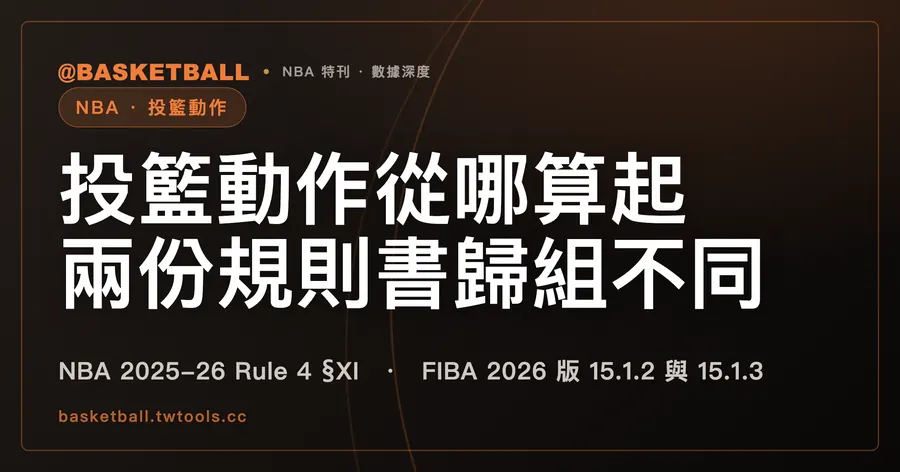
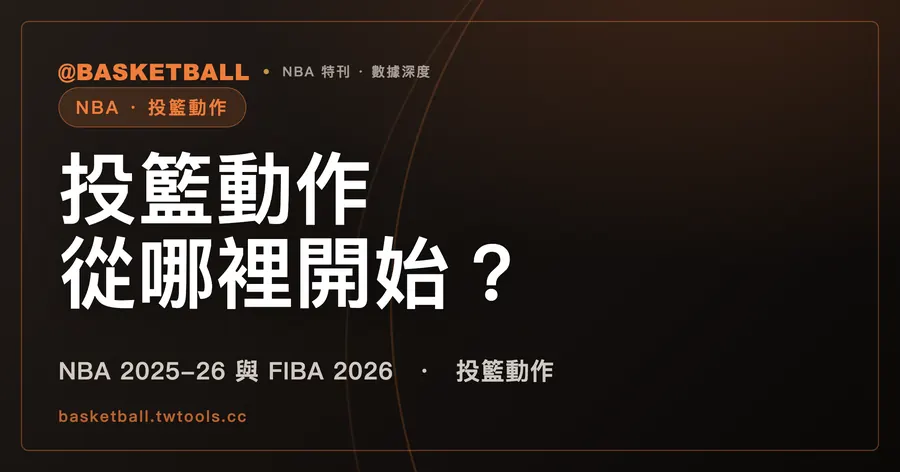
style: simplify shooting-motion and end-of-period guides (#89)

diff --git a/scripts/gen-basketball-cover.py b/scripts/gen-basketball-cover.py
@@ -279,11 +279,11 @@ COVERS = [
      "運球停下來後<br>還能再運嗎？",
      "NBA 2025-26 與 FIBA 2026　·　運球結束與二次運球"),
     ("act-of-shooting-basics", "NBA · 投籃動作",
-     "投籃動作從哪算起<br>兩份規則書歸組不同",
-     "NBA 2025-26 Rule 4 §XI　·　FIBA 2026 版 15.1.2 與 15.1.3"),
+     "投籃動作<br>從哪裡開始？",
+     "NBA 2025-26 與 FIBA 2026　·　投籃動作"),
     ("end-of-period-ball-in-flight-basics", "NBA · 時間到時的球",
-     "時間到時球在飛行中<br>之後被碰到寫法不同",
-     "NBA 分防守方與進攻方　·　FIBA 寫任一隊球員"),
+     "時間到之後<br>誰碰到了球？",
+     "NBA 2025-26 與 FIBA 2026　·　飛行中的投籃"),
     ("ball-out-of-bounds-last-touch-basics", "NBA · 球出界",
      "球出界<br>算誰的？",
      "NBA 2025-26 與 FIBA 2026　·　最後觸球與恢復程序"),

diff --git a/articles/end-of-period-ball-in-flight-basics/index.md b/articles/end-of-period-ball-in-flight-basics/index.md
@@ -4,135 +4,93 @@ competition: nba
 topic: nba-rules
 type: "feature"
 date: "2026-10-10"
-title: "投籃的球在空中、時間到之後被碰到：NBA 2025-26 按碰球者分兩種結果，FIBA 2026 寫任一隊球員"
-subtitle: "NBA 2025-26 規則書 Rule 5 §III EXCEPTION (3)：horn 響時球已在飛行中，其後被防守方球員碰到，the goal, if successful, shall count；被進攻方球員碰到，the period has ended。FIBA 2026 版 Art. 10.3：任一隊球員在 game clock signal 之後碰到飛行中的投籃，the ball becomes dead，該項沒有寫進球算不算。"
-lede: "NBA 2025-26 規則書 Rule 4 §XI 寫，live ball 從場內飛向籃框時，即使 time expires，進了的球 shall count；FIBA 2026 版規則書（2026 年 10 月 1 日生效）Art. 10.4 寫，投籃在飛行中而且 game clock signal 為節末或延長賽結束響起時，the goal counts if made。球在時間到之後被碰到，兩本規則書的寫法不同（NBA Rule 5 §III EXCEPTION (3)、FIBA Art. 10.3）。"
+title: "節末訊號後，飛行中的投籃被碰到怎麼算？NBA 與 FIBA 規則對照"
+subtitle: "NBA 2025-26 規則書與 FIBA 2026 版（v1.1）怎麼處理節末前出手、訊號時仍在空中的兩分或三分投籃：先看有沒有人碰；有人碰，先看這一碰算不算違例，不算違例再看是哪一隊碰的（NBA 才分隊）。"
+lede: "球在節末前已出手，訊號響時還飛向籃框。之後有人碰球，進了算不算？NBA 2025-26 要分碰球的是哪一隊；兩邊都還要把普通碰球與干擾球、妨礙中籃分開處理。"
 topic_ref: "manual"
 ---
 
-# 投籃的球在空中、時間到之後被碰到：NBA 2025-26 按碰球者分兩種結果，FIBA 2026 寫任一隊球員
+# 節末訊號後，飛行中的投籃被碰到怎麼算？NBA 與 FIBA 規則對照
 
 **新手村｜規則入門・時間到時飛行中的投籃**
 
-時鐘剛好跑完，球已經離手，還在飛向籃框。這一球進了算不算？如果球在這個時候被人碰到，又怎麼辦？
+想像一個畫面（假設，不是哪一場比賽）：第四節剩不到一秒，球員在場內投出一記兩分球。球離手，計時器歸零，節末訊號響起，球還在往籃框飛。
 
-本文依據 NBA 2025-26 規則書（含 Comments on the Rules）與 FIBA 2026 版規則書 v1-1（2026 年 10 月 1 日生效）的本機保存全文文字檔，取得日 2026 年 10 月 4 日。
+這球還算不算？如果有人伸手碰到它，又怎麼算？
 
-這類球在中文裡有個慣稱叫「壓哨」，「時間到」「飛行中」也是中文講法，都不是規則書的用語。NBA 條文寫的是 time expires、horn sounds、in flight toward the basket，FIBA 2026 版寫的是 game clock signal sounds、in flight on a shot for a goal。下文引條文時保留英文原詞，中文的「時間到」只在概括時使用。
+## 訊號響時球在空中、之後沒人碰，進了算嗎？
 
-讀完之後，你可以拿三個假設的瞬間，自己判斷兩本規則書的字面結果，也會看出哪兩格條文沒有寫。
+先把設定講清楚：場內的合法兩分或三分投籃，在節末（或延長賽結束）的時間到之前離手，訊號響時仍飛向籃框，沒有其他犯規或違例，之後也沒有任何人碰到球。罰球不在這個設定裡。
 
-## 五款例外裡寫到飛行中的球：NBA 2025-26 Rule 5 §III 的 (1) 與 (3)
+在這個設定下，NBA 2025-26 與 FIBA 2026 v1.1 的結果相同：進了，算分。
 
-NBA 2025-26 規則書 Rule 5 §III（End of Period）a 款的第一句是「Each period ends when time expires」，每一節在 time expires 時結束。接著列出五款 EXCEPTIONS：
+NBA Rule 4 §XI 說，從場內向籃框飛行的活球，即使時間到或哨響，進了仍然計分。但比賽鐘如果在球離手之前，或球還沒飛向籃框之前就到期，這球不計分。
 
-| 款 | 情境（NBA 2025-26，Rule 5 §III a） |
-|---|---|
-| (1) | field goal attempt 在 in flight toward the basket：節在 goal 被 made、missed 或被 offensive player 碰到時結束 |
-| (2) | official 的 whistle 在時鐘 :00.0 之前響起：節沒有結束，時間要加回時鐘 |
-| (3) | field goal attempt 在 horn sounds ending a period 時已在 in flight toward the basket，其後被碰到 |
-| (4) | timeout request 在 time expires 的當下提出 |
-| (5) | foul 被判在 in the act of shooting 的球員身上，或由這名球員犯下 |
+FIBA 寫在 10.4。投籃的球在飛行中，遇到節末或延長賽結束的比賽鐘訊號（game clock signal），球不會成為死球，進了算分。FIBA 9.7 規定，一節在比賽鐘訊號響起時結束。背板周圍裝有紅燈的話，燈光優先於聲響。
 
-b 款另寫一個情形：ball is dead 而且 game clock shows :00.0 時，the period has ended，即使 horn 可能還沒響。
+什麼叫球已經「出手」，是另一個問題，可以看[投籃動作的規則入門](/articles/act-of-shooting-basics/)。
 
-五款裡有 in flight 這個詞的是 (1) 與 (3)。(1) 的文字沒有提到 horn；(3) 的前提是 horn 響時球已經在飛行中。進了算不算，要再翻 Rule 4 §XI。(2)、(4)、(5) 與 b 款談的是別的事。
+## 訊號之後，誰碰到了球？
 
-## 時間到時飛行中的球進了算不算：NBA 2025-26 寫在 Rule 4 §XI
+下表的設定要一次看完：場內的合法兩分或三分投籃；在節末或延長賽結束的訊號前離手；訊號響時仍飛向籃框；若訊號後有人碰到球，該次碰球不構成干擾球、妨礙中籃或任何其他犯規違例；球之後進了籃。
 
-NBA 2025-26 規則書 Rule 4（Definitions）§XI（Field Goal Attempt）有一句直接談進球：「However, anytime a live ball is in flight toward the rim from the playing court, the goal, if made, shall count, even if time expires or the official’s whistle sounds.」句子裡有三個限定：球是 live ball、球在 in flight toward the rim、球是 from the playing court。even if 後面列了兩件事，time expires 與 the official’s whistle sounds。
-
-同一段也有反面的一句：time on the game clock expires before the ball leaves the player’s hand，或 before the ball is in flight toward the rim 時，the field goal will not be scored。
-
-Rule 5 §III EXCEPTION (1) 的文字回答的是另一個問題：field goal attempt in flight toward the basket 時，節在 goal made、missed 或被 offensive player 碰到的時候結束。這一款寫節的結束時點，沒有寫計分。Rule 6 §IV a 的 EXCEPTION 有相近的字，寫的是球變 dead 的時點。
-
-## 響聲時已在飛行、之後被碰到：NBA 2025-26 EXCEPTION (3) 分防守方與進攻方
-
-Rule 5 §III a 的 EXCEPTION (3) 是把 horn 與碰球寫在同一句的一款：「If a field goal attempt is in flight toward the basket when the horn sounds ending a period, and it subsequently is touched by: (a) a defensive player, the goal, if successful, shall count; or (b) an offensive player, the period has ended.」
-
-這一款的前提有兩層。第一層，horn sounds ending a period 的時候，球已經 in flight toward the basket。第二層，球在 horn 響過之後才 subsequently touched。(a) 與 (b) 接在這兩層前提之後。
-
-(a) 的碰球者是 defensive player，款文寫 the goal, if successful, shall count。(b) 的碰球者是 offensive player，款文寫 the period has ended。(b) 寫到這裡為止，這一球若進了籃算不算分，款文沒有寫。
-
-offensive player 碰到球的句子，EXCEPTION (1) 也有，那一句沒有 horn 這個詞；(3)(b) 的前提多了 horn 響時球已在飛行中。
-
-## 時間到時飛行中的投籃進了算不算：FIBA 2026 版寫在 Art. 10.4
-
-FIBA 2026 版規則書 Rule Four（Playing Regulations）Art. 10.4 的引言是「The ball does not become dead and the goal counts if made when:」。第一個項目寫 The ball is in flight on a shot for a goal and:，底下有三個子項：referee 吹哨、game clock signal sounds for the end of the quarter or overtime、shot clock signal sounds。這裡用到的是第二個子項 game clock signal。
-
-這一項的前提是兩件事同時成立：球在 in flight on a shot for a goal，而且 game clock signal sounds for the end of the quarter or overtime。結果寫兩件：the ball does not become dead，而且 the goal counts if made。這一項的文字沒有提到球被碰到的情形。
-
-shot for a goal 從什麼時候算起，寫在另一條：Rule Five（Violations）Art. 31.1.1 寫，shot for a goal 在 the ball leaves the hand(s) of a player in the act of shooting 時 starts。「in the act of shooting」是另一個題目，[同一批新文章裡有一篇談投籃動作](/articles/act-of-shooting-basics/)。
-
-Art. 9.7 另有一句談節何時結束：quarter、overtime 或 game 在 game clock signal sounds for the end of the quarter or overtime 時 shall end。
-
-## 飛行中的投籃在響聲之後被碰到：FIBA 2026 版 Art. 10.3 寫任一隊球員
-
-FIBA 2026 版 Art. 10.3 的引言是「The ball becomes dead when:」（死球是站內習慣的譯名，規則書的英文是 dead）。下面有六個項目：任何 goal 或 free throw 進了；referee 在球是 live 時吹哨；罰球之後還有罰則，而且球明顯不會進籃；game clock signal 為節末或延長賽結束響起；shot clock signal 在球隊控球時響起；第六項寫飛行中的球被碰到。
-
-第六項的原文是：「The ball in flight on a shot for a goal is touched by a player from either team after:」，後面有三個子項，referee 吹哨、game clock signal 響起、shot clock signal 響起。球在 game clock signal sounds for the end of the quarter or overtime 之後被碰到，the ball becomes dead。碰球的人寫成 a player from either team，兩隊的球員用同一句。
-
-這一項寫到 the ball becomes dead 為止，進球算不算，該項沒有寫。附近有三處文字用到相近的詞：Art. 10.3 的第四個項目只寫 game clock signal sounds，結果是 the ball becomes dead；Art. 10.4 第一項寫 in flight 而且 game clock signal 響起，結果是 the goal counts if made；Art. 16.1.1 另寫 a goal is made 的定義，a live ball enters the basket from above and remains within or passes through the basket entirely。這三處在不同條或不同項，原文沒有互相指涉，各寫各的。
-
-## 出手是否趕在時間到之前：NBA 2025-26 與 FIBA 2026 版的訊號、燈光與複核
-
-前面幾節談的是球已經在飛行中的情形。球有沒有在時間到之前離手，兩邊各有訊號與複核的條文：
-
-| 項目 | NBA 2025-26 | FIBA 2026 版 |
+| 訊號後誰碰到球 | NBA 2025-26 | FIBA 2026 v1.1 |
 |---|---|---|
-| 訊號 | Rule 2 §VIII g：game clock 與 scoreboard 使 horn 在 playing time for the period has expired 時自動響起 | Art. 50.1：timer 要 ensure that the game clock signal sounds very loudly and automatically at the end of a quarter or overtime |
-| 紅色燈光 | Rule 1 §II g：backboard 的四條 red LED，與 game clock 同步，指示 expiration of time | Art. 9.7：backboard 配有 red lighting around its perimeter 時，the lighting takes precedence over the game clock signal sound |
-| 複核 | Rule 13 §I a(1)：任一節結束、時鐘 0:00 時的 field goal made 觸發重播；§II a：檢視 time on the game clock expired before the ball left the shooter’s hand | Appendix F.3.1：end of the quarter or overtime 時，可複核 whether a shot for a successful goal was released before the game clock signal sounded |
+| 沒有人碰 | 算 | 算 |
+| 防守方球員碰 | 算 | 不算 |
+| 進攻方球員碰 | 不算 | 不算 |
 
-NBA 這一側還有兩處。Comments on the Rules II.L 寫，無論 horn 或 red light 何時運作，officials（as aided by instant replay, if required）會做出 final decision，決定 allow 或 disallow a successful field goal。Rule 13 §III d 規定，Replay Center Official 對任一節結束的 scoring、timing 或 fouls 下裁決時，依序使用的清單，第 (1) 項是 game clock or shot clock on top of backboard，第 (2) 項是 LED lights。
+NBA Rule 5 §III 例外 (3)(b) 寫進攻方碰球後節已結束。Rule 6 §IV 在節末時間到的死球規定中保留例外：當時已在飛行中的投籃，要到球進、球不進或被進攻方球員碰到時，才成為死球。Rule 5 §I 只替合法投籃的入籃計分。球已經死了，之後才入籃，不算分。
 
-紅色燈光在兩本規則書各是一條獨立的文字。NBA 的 Rule 1 §II g 是 backboard 的設備規格，款文沒有 precedence 這個字；FIBA 的 Art. 9.7 寫的是燈光與聲響訊號之間的先後。
+FIBA 的寫法不分隊。10.3 把節末或延長賽訊號之後、飛行中的投籃被任一隊球員碰到，列為死球。16.1.1 說，進球是活球從上方進入籃框，並留在籃內或完全穿過。死球之後入籃，不符合這個定義。
 
-複核的兩條列的都是出手時點：球離手時，時間到了沒有。EXCEPTION (3) 與 Art. 10.3 談的，是球已經在飛行中之後的事。
+兩本規則書只在防守方那一列給出不同的結果。
 
-## 相鄰條文的去處：NBA 2025-26 的 0.3 秒門檻、暫停請求與投籃中的犯規
+## 如果碰球的動作本身就違例呢？
 
-- Comments on the Rules II.L 的 :00.3 門檻與 :00.2、:00.1 只列 tip-in 或 high lob 的句子，見 [0.3 秒規則](/articles/point-three-seconds-rule-basics/)。Rule 5 §III 與 Comments II.L 的文字各自沒有指向對方，兩處並存，各寫各的；本機保存的規則書文字檔裡，明寫指向 II(L) 的是 Rule 13 §I a(1) NOTE 的第二句，連的是 Rule 13，不是 Rule 5 §III。
-- EXCEPTION (4) 的 timeout request 見 [暫停配額](/articles/timeouts-basics/)。
-- EXCEPTION (5) 與 b 款之後那行 EXCEPTION 都指向 Rule 13, Section II(b)(ii)（in the act of shooting 的球員的 foul）；[教練挑戰](/articles/coachs-challenge-basics/) 有一行列出任一節結束、時鐘歸零（0:00）的進球。
+干擾球與妨礙中籃不是同一個門檻。兩本規則書各自有禁令和給分的罰則，碰球一旦落進其中一類，就不再用上面的表判。
 
-## 拿三個假設的瞬間，判斷 NBA 2025-26 與 FIBA 2026 的字面結果
+NBA 先看 Rule 6 §IV。它的例外讓飛行中的投籃在 horn 響時仍然存活，所以 Rule 11 照常適用。Rule 11 有很多款禁令。例如其中一款禁止從場內碰觸正在下降、仍有得分機會的球。其他款的要件各不相同，不能用這一款概括全部。
 
-下面三個瞬間都是假設，沒有指任何一場比賽。共同的假設前提：甲隊球員從場內投籃，球是 live ball，在時間到之前已離手，正在飛向籃框；NBA 的 horn 或 FIBA 的 game clock signal 為節末或延長賽結束響起時，球還在飛行中。每一格答案都出自前面幾節引過的條文。
+防守方的碰球如果符合其中一款的要件，依投籃出手的區域判給分：兩分區出手給 2 分，三分區出手給 3 分，視同球已進籃，不以球實際入籃為必要。這裡只談防守方單方違例。
 
-| 假設的瞬間 | NBA 2025-26 | FIBA 2026 版 |
-|---|---|---|
-| 1　響聲之後沒有人碰到球，球隨後進了籃 | Rule 4 §XI：the goal, if made, shall count | Art. 10.4：the ball does not become dead and the goal counts if made |
-| 2　響聲之後，球被乙隊（防守方）球員碰到，球隨後進了籃 | Rule 5 §III EXCEPTION (3)(a)：the goal, if successful, shall count | Art. 10.3：the ball becomes dead；進球算不算，該項沒有寫 |
-| 3　響聲之後，球被甲隊（進攻方）球員碰到，球隨後進了籃 | Rule 5 §III EXCEPTION (3)(b)：the period has ended；進球算不算，款文沒有寫 | Art. 10.3：the ball becomes dead；進球算不算，該項沒有寫 |
+FIBA Art. 31 分別規定干擾球與妨礙中籃，兩者的成立要件不同，不能用干擾球的門檻概括所有妨礙中籃。
 
-瞬間 2 與瞬間 3 的 FIBA 欄一樣，因為 Art. 10.3 這一項寫的是 a player from either team。NBA 欄不同，因為 EXCEPTION (3) 先問碰球者是 defensive player 還是 offensive player。
+節末另有 31.2.5：節末或延長賽結束訊號響過，球已碰框而且仍可能入籃，任何球員都不得碰，干擾球與妨礙中籃的限制也全部適用。
 
-要自己做這件事，可以拿任何一段對時間到前後球路的描述，依序問三個問題。球離手了嗎？響聲響起時，球還在飛行中嗎？之後有人碰到球嗎，碰到的是哪一隊的人？這個順序是本文的讀法，不是規則書的步驟。
+本文只摘 Art. 31.3 在場內兩分與三分投籃、單方違例情境的得分處理：防守球員違例，進攻隊依出手區得 2 或 3 分，視同球已進籃；進攻球員違例，不給分。
 
-兩本規則書的字面寫法不同，但字面不同是否讓同一個瞬間在兩邊得到不同的判決，本文引用的條文答不了。能確定的是，碰球之後的寫法各有一格留白：NBA 的 EXCEPTION (3)(b) 停在 the period has ended，FIBA 的 Art. 10.3 這一項停在 the ball becomes dead。
+比較壓哨球，只問有沒有及時出手不夠。在場內兩分與三分投籃的範圍內，還要分清後面是哪一隊碰球，以及碰球本身算不算違例。
+
+相關閱讀：[0.3 秒規則](/articles/point-three-seconds-rule-basics/)、[暫停](/articles/timeouts-basics/)、[教練挑戰](/articles/coachs-challenge-basics/)。
 
 ## 常見問題
 
 ### NBA 2025-26 規則書裡，time expires 時球已在飛行中而且沒被碰到，進了算分嗎？
 
-依 NBA 2025-26 規則書 Rule 4 §XI，live ball 從場內飛向籃框（in flight toward the rim from the playing court）時，the goal, if made, shall count，即使 time expires。這一句沒有談球被碰到的情形，碰球寫在 Rule 5 §III EXCEPTION (3)。詳見本文談 Rule 4 §XI 的那一節。
+算。條件是場內的合法兩分或三分投籃，在節末時間到之前離手，時間到時仍飛向籃框，沒有其他犯規或違例，之後也沒有人碰到球。比賽鐘若在球離手前就到期，不計分。依據是 Rule 4 §XI 與 Rule 5 §III，詳見第一、二節。
 
 ### FIBA 2026 版規則書裡，game clock signal 響時投籃的球在飛行中，進了算分嗎？
 
-依 FIBA 2026 版規則書 Art. 10.4，投籃在 in flight 而且 game clock signal sounds for the end of the quarter or overtime 時，the ball does not become dead and the goal counts if made。這一項沒有提到球被碰到。詳見談 Art. 10.4 的那一節。
+算。條件同樣是場內的合法兩分或三分投籃，在節末或延長賽結束的訊號前離手，訊號響時仍在飛行，沒有其他犯規或違例，之後也沒有人碰到球。依據是 10.4，球不會成為死球。
 
 ### NBA 2025-26 的 horn 響過之後，飛行中的球才被碰到，怎麼算？
 
-依 NBA 2025-26 規則書 Rule 5 §III EXCEPTION (3)，前提是 horn 響時球已在 in flight toward the basket。其後被 defensive player 碰到，the goal, if successful, shall count；被 offensive player 碰到，the period has ended，款文沒有寫進球算不算。詳見談 EXCEPTION (3) 的那一節。
+先看設定：場內的合法兩分或三分投籃，節末前離手，horn 響時仍飛向籃框，而且這一碰不構成干擾球、妨礙中籃或其他犯規違例。防守方碰到，進了算；進攻方碰到，節已結束，球成死球，之後入籃不算。
+
+如果碰球本身符合 Rule 11 的違例要件，改按違例判。防守方違例依出手區給 2 或 3 分，不必入籃。詳見第二、三節。
 
 ### FIBA 2026 版 game clock signal 響過之後，飛行中的投籃被碰到，怎麼算？
 
-依 FIBA 2026 版規則書 Art. 10.3 第六個項目，ball in flight on a shot for a goal 在 game clock signal sounds for the end of the quarter or overtime 之後被任一隊球員碰到，the ball becomes dead；進球算不算，這一項沒有寫。詳見談 Art. 10.3 的那一節。
+先看設定：場內的合法兩分或三分投籃，節末或延長賽結束的訊號前離手，訊號響時仍在飛行，而且這一碰不構成干擾球、妨礙中籃或其他犯規違例。任一隊球員碰到，球成死球，之後入籃不算進球。
+
+如果碰球本身構成干擾球或妨礙中籃，改按 Art. 31 判：防守球員違例，依出手區給 2 或 3 分；進攻球員違例，不給分。訊號後球已碰框而且仍可能入籃，任何球員都不得碰。詳見第二、三節。
+
+## 範圍與版本
+
+比較對象是 NBA 2025-26 官方規則書，與 FIBA 官方籃球規則 2026 年版（v1.1，2026 年 10 月 1 日生效），不是 NBA 2026-27 的更新案。範圍限場內的兩分與三分投籃，罰球不在內。表中的結果，只在表上方那組設定全部成立時成立；碰球本身若違例，看第三節。規則的中文是轉述，不是官方翻譯；條號與第一次出現的術語保留英文。
 
 ## 資料來源
 
-範圍與版本：本文只讀 NBA 2025-26 規則書與 FIBA 2026 版 v1-1 兩份文件，規則書會隨賽季或修訂更新，之後以官方發布的現行版本為準。
-
-- NBA Official Playing Rules 2025-26（含 Comments on the Rules）：Rule No. 1 Section II g；Rule No. 2 Section VIII g；Rule No. 4 Section XI；Rule No. 5 Section III a、b；Rule No. 6 Section IV a；Rule No. 13 Section I a(1) 與其 NOTE、Section II a、Section III d；Comments on the Rules II.L。本機保存的全文文字檔，取得日 2026 年 10 月 4 日，無可點擊網址。
-- FIBA Official Basketball Rules 2026 v1-1（2026 年 10 月 1 日生效）：Art. 9.7、10.3、10.4、16.1.1、31.1.1、50.1，以及 Appendix F.3.1。本機保存的全文文字檔，取得日 2026 年 10 月 4 日，無可點擊網址。
+- [NBA 2025-26 官方規則書](https://cdn.nba.com/manage/2026/01/Official-2025-26-NBA-Playing-Rules.pdf)：Rule 4 §XI、Rule 5 §I 與 §III、Rule 6 §IV、Rule 11。
+- [FIBA 官方規則下載頁](https://about.fiba.basketball/en/services/resource-hub/downloads)：2026 年版 9.7、10.3、10.4、16.1.1、Art. 31。

diff --git a/articles/act-of-shooting-basics/index.md b/articles/act-of-shooting-basics/index.md
@@ -4,164 +4,75 @@ competition: nba
 topic: nba-rules
 type: "feature"
 date: "2026-10-10"
-title: "投籃動作的起點怎麼分組？NBA 2025-26 與 FIBA 2026 的歸法不同"
-subtitle: "other moving shots 在 NBA 2025-26 Rule 4 §XI 與 drives to the basket 同句，在 FIBA 2026 版 Art. 15.1.2 與 jump shots 同款，起算的動作也跟著不同。"
-lede: "NBA 2025-26 規則書 Rule 4 §XI 把 drives to the basket 與 other moving shots 寫在同一句，以球員 gathers the ball and continues through with a shot 起算（take foul situation 且 clocks are not expiring 時，改以 the player's shoulders start upward 起算），jump shots 另以 starts to bring the ball upward towards the basket 起算。FIBA 2026 版規則書（2026 年 10 月 1 日生效）Art. 15.1.2 則把 jump shots 與 other moving shots 寫在同一款，drives to the basket 另列 15.1.3。"
+title: "投籃動作從哪裡開始？NBA 2025-26 與 FIBA 2026"
+subtitle: "收球不能概括所有投籃動作的起點，球出手也不能當成兩本規則書共通的終點。"
+lede: "投籃動作什麼時候開始、什麼時候結束？NBA 2025-26 規則書與 FIBA 2026 版規則書（v1.1，2026 年 10 月 1 日生效）起點按動作類型和情境寫，終點各有寫法，所以「收球」不是所有起點，「球出手」也不是兩邊共通的終點。"
 topic_ref: "manual"
 ---
 
-# 投籃動作的起點怎麼分組？NBA 2025-26 與 FIBA 2026 的歸法不同
+# 投籃動作從哪裡開始？NBA 2025-26 與 FIBA 2026
 
 **新手村｜規則入門・投籃動作**
 
-本文依據 NBA 2025-26 規則書的 Rule 4 Section XI（Field Goal Attempt），以及 FIBA 2026 版規則書 v1-1（2026 年 10 月 1 日生效）的 Article 15（Player in the act of shooting）。兩份全文文字檔都是 2026 年 10 月 4 日取得。
+NBA 規則書在投籃動作的定義裡，有一句容易讓人愣住的話：“It is not essential that the ball leave the shooter’s hand.” 球不必離開射手的手。下一句舉了一個例子：射手的手臂可能被抓住，沒辦法真的出手。
 
-罰球數和三秒通融，都要先問球員是不是在投籃動作中。站內的[違例與犯規有什麼不同](/articles/violation-vs-foul/)，把「投籃動作中」當作罰球數的條件；[進攻三秒什麼時候開始算](/articles/offensive-three-seconds-basics/)，把它當作 NBA 2025-26 Rule 10 §VI(b) 通融的前提。這個前提本身怎麼從條文判斷，是本文要讀的。
+規則書說的「投籃動作」（act of shooting）是一段時間，有起點，也有終點，不等於球出手的那一瞬間。這段時間從哪裡開始、到哪裡結束，NBA 2025-26 規則書和 FIBA 2026 版規則書的寫法有差別。
 
-「投籃動作」是站上對 act of shooting 的慣稱，規則書只有英文。跳投、切入也是中文慣稱，規則書用的是 jump shots 與 drives to the basket。shooting motion、take foul 這類規則書用語，本文保留英文，不另譯。
+## 收球時，已經開始投籃了嗎？
 
-NBA 2025-26 規則書與 FIBA 2026 版規則書都把投籃動作的起點按動作分開寫，但分法不同。讀完之後，你可以拿一個動作，自己到兩份條文裡找它的起點和終點。
-
-## 起點由裁判判斷、終點要兩個條件：NBA 2025-26 的投籃動作
-
-NBA 2025-26 規則書把投籃動作寫在 Rule 4 Section XI，節名是 Field Goal Attempt。首句說明 field goal attempt 是球員把球投進 his basket、想得到 field goal 的嘗試。
-
-定義投籃動作的句子在後面，原句是：The act of shooting starts when, in the official’s judgment, the player has started his shooting motion and continues until the shooting motion ceases and he returns to a normal floor position.
-
-起點是裁判判斷球員已經開始 shooting motion 的那一刻。終點要等 shooting motion 停止，而且球員回到 normal floor position，兩個條件用 and 連接。
-
-終點句裡沒有寫球離手。球離手這個條件，要到 FIBA 2026 版的 Ends 項才出現。
-
-球出手之後在空中的階段，以及節末時間到時怎麼處理，歸同一批新文章裡的[節末球在空中那篇](/articles/end-of-period-ball-in-flight-basics/)。
-
-## 起點分兩句：NBA 2025-26 把 jump shots 與另外兩種動作分開寫
-
-§XI 接下來用兩句，按動作寫 shooting motion 從哪一刻開始：
-
-| 動作（規則書用語） | NBA 2025-26 Rule 4 §XI 的起算句（意譯） |
-|---|---|
-| jump shots | 進攻球員 starts to bring the ball upward towards the basket，也就是開始把球向籃框方向往上帶 |
-| drives to the basket 或 other moving shots | 球員 gathers the ball，並 continues through with a shot |
-
-第二列那一句帶一個括號。括號的前提有兩個：take foul situation，以及 clocks are not expiring。兩個前提一起成立時，起點改成 the player’s shoulders start upward，也就是球員的肩膀開始往上。
-
-§XI 沒有定義 take foul situation 與 clocks are not expiring。Rule 4 §IV(i)(1) 在 transition take foul 的定義裡，另有一個 take foul 的括號說明：a foul in which the defender does not make a play on the ball，也就是防守者沒有去爭球的犯規。§XI 沒有引用 §IV，兩處的 take foul 是否同義，條文沒有寫。jump shots、drives to the basket、other moving shots 這三個詞，兩份規則書也都沒有各自的定義句。一個實際動作要歸進哪一組，條文沒有給判準。gather 則有定義，在 Rule 4 §III，分成兩款：經傳球接球或取得 loose ball 的球員，以及運球中控制球的球員。§III(b) 的三款已經列成表，見[走步篇](/articles/traveling-gather-steps-basics/)。運球什麼時候算結束，歸同一批新文章裡的[運球結束與二次運球那篇](/articles/dribble-ends-double-dribble-basics/)。
-
-## 兩款起訖：FIBA 2026 版 15.1.2 與 15.1.3 的 Ends 項逐字相同
-
-FIBA 2026 版規則書的 Article 15 共有 15.1.1 到 15.1.8 八個子條。15.1.1 是 shot、tap、dunk 的定義，已被引用在[0.3 秒規則篇](/articles/point-three-seconds-rule-basics/)。投籃動作的起點與終點，寫在 15.1.2 與 15.1.3：
-
-| 款次 | 對象 | Starts 項（意譯） |
+| 規則書 | 動作類型 | 起點 |
 |---|---|---|
-| 15.1.2 | jump shots 或 other moving shots | 球員開始把肩膀和球一起往對手籃框方向往上帶 |
-| 15.1.3 | continuous movement on drives to the basket | 球員 has gathered the ball 而且球停在手中，時機是完成運球或在空中接球之後，並且球員 continues the shooting motion preceding the release of the ball for a goal |
+| NBA Rule 4 §XI | 跳投（jump shots） | 裁判判斷已開始投籃動作，而且進攻者開始把球朝籃框往上帶 |
+| NBA Rule 4 §XI | 切入（drives to the basket）與其他移動投籃（other moving shots） | 裁判判斷已開始投籃動作，而且球員收球後接續出手。例外：take foul 情境且計時器沒有即將到期時，改從肩膀開始往上起算 |
+| FIBA Art. 15.1.2 | 跳投與其他移動投籃 | 球員開始把肩膀和球一起朝對手籃框往上移 |
+| FIBA Art. 15.1.3 | 切入（連續動作） | 完成運球或空中接球後，球員已收球、球停在手中，而且接續出手前的投籃動作 |
+| FIBA Art. 15.1.4 | 以上各款的位置 | 球員要在前場。例外：節末或延長賽比賽鐘到期前的最後一個動作，或比賽中任何時刻進攻鐘到期前的最後一個動作，可在場上任何位置，起點改為已收球、球停在手中 |
 
-15.1.3 的後段另外描述這個動作：它是球員在 the team’s frontcourt 的動作，typically（通常）從進攻方 3 分線與籃框之間開始。
+收球（gather）本身在 NBA Rule 4 §III 另有定義。運球中的球員把兩手放到球上，或讓球停住，都是收球的一種。這只說明收球何時成立，說不出投籃動作是否已經開始。
 
-兩款各有一個文字相同的 Ends 項，整句是：Ends when the ball has left the player’s hand(s), or if an entirely new act of shooting is made and, in case of an airborne shooter, both feet have returned to the floor.
+take foul 在 Rule 4 §IV 另有描述：防守者沒有試圖去碰球（make a play on the ball）的犯規。
 
-or 之後半句裡的 and, in case of an airborne shooter 管到哪裡，條文沒有標明。這裡照原文整句引，不替它斷句。
+## 球沒離手，或已經離手呢？
 
-## 歸組不同：other moving shots 在 NBA 2025-26 與 FIBA 2026 版
+NBA 的終點句有兩個條件：投籃動作停止，而且球員回到正常的地面姿態（normal floor position）。這一句沒有寫球離手。開頭那句「球不必離手」就在同一段定義裡。所以「球一出手，投籃動作就結束」，不能直接套在 NBA 這一句上。
 
-前面兩節的分組，可以排成一張表：
+FIBA 也有球不必離手的條文，Art. 15.1.6，前提比較多：球員已經在投籃動作中，手臂被對手抓住，因此無法得分。在這種情況下，球不必離手。NBA 那句的「手臂可能被抓住」是舉例，沒有把抓臂訂成唯一情形，也不表示任何抓臂都是投籃動作中的犯規。
 
-| 動作 | NBA 2025-26 Rule 4 §XI | FIBA 2026 版 Art. 15 |
-|---|---|---|
-| jump shots | 單獨一句，以球往上帶起算 | 15.1.2，以肩膀和球往上起算 |
-| other moving shots | 與 drives to the basket 同一句，以 gather 之後 continues through with a shot 起算 | 15.1.2，與 jump shots 同一款 |
-| drives to the basket | 與 other moving shots 同一句 | 15.1.3 另列一款，以球在運球結束後停在手中起算 |
+## 被犯規之後又傳球呢？
 
-起算的動作也跟著分組不同。NBA 的 shoulders 在 §XI 裡只出現在 take foul 的括號。FIBA 2026 版的一般起點就寫 shoulders and the ball，出現在 15.1.2。
+FIBA 對這個情況有兩款。球員原本在投籃動作中，被犯規之後做了某些動作，規則書就說他不再被視為曾在投籃動作中。
 
-分組不同是否影響判罰，兩份條文都沒有寫。
+跳投或其他移動投籃（Art. 15.1.7），被犯規之後，下面三件事任何一件發生，就不再算：把球傳出去；球向遠離籃框的方向往上移；球往上移的時候，球員沒有面向籃框。
 
-## 投籃的球員要在 frontcourt：FIBA 2026 版 15.1.4 與兩個例外
+切入（Art. 15.1.8）的文字只有一項：被犯規之後把球傳出去。
 
-Art. 15.1.4 的首句是：For a player to be in the act of shooting, the player must be in the frontcourt.
+NBA 的投籃動作定義（Rule 4 §XI）沒有另外一款專談被犯規後傳球，不從 FIBA 反推 NBA 的處理。
 
-接著它列出一個例外：球員可以在場上任何位置，限於兩種計時器到期之前的 last action。一種是節末或延長賽結束時 game clock 到期，另一種是比賽任何時候 shot clock 到期。這兩種情形的起點是 has gathered the ball and it comes to rest in the player’s hand(s)。
-
-15.1.4 只寫了這兩種情形的起點。終點怎麼算，15.1.4 沒有寫，也沒有引用 15.1.2 與 15.1.3 的 Ends 項。
-
-frontcourt 的定義在 Art. 2.4。Art. 11.1 另寫，球員的位置由他碰到地面的地方決定，在空中時保有上一次碰地處的狀態。15.1.4 沒有引用 Art. 2.4 與 Art. 11.1，兩條合讀的結果，條文沒有寫。
-
-NBA 2025-26 規則書 Rule 4 §XI 裡，本機快照查無 frontcourt 與 backcourt 字樣。
-
-## 球不必離手：NBA 2025-26 Rule 4 §XI 與 FIBA 2026 版 15.1.6
-
-NBA 2025-26 Rule 4 §XI 的原句是：It is not essential that the ball leave the shooter’s hand. His arm(s) might be held so that he cannot actually make an attempt.
-
-第一句本身沒有寫前提，第二句以 might 舉了手臂被抓住的例子。這兩句裡沒有 act of shooting 一詞。
-
-FIBA 2026 版 Art. 15.1.6 寫的是另一款：投籃動作中，球員的手臂可能被對手抓住，以致無法得分，In this case 球不必離手。這一款的 not essential 以手臂被對手抓住為條件。
-
-兩邊的終點句都與這個 not essential 並存。FIBA 的 Ends 項寫球離手，NBA §XI 的終點句寫 shooting motion 停止。條文沒有寫 not essential 是終點句的例外還是補充。
-
-另外，NBA 2025-26 Rule 7（Shot Clock）§II(d)(1) 寫，legal field goal attempt 的條件之一是 The ball must leave the player’s hand prior to the expiration of the shot clock。它和 Rule 4 §XI 的 not essential 句分屬兩條規則，條文沒有把兩者連起來。
-
-## 步數與被犯規後傳球：FIBA 2026 版 15.1.5、15.1.7、15.1.8 三款
-
-FIBA 2026 版 Art. 15.1.5 寫，合法步數的多少與投籃動作之間沒有關係。原文是 There is no relationship between the number of legal steps taken and the act of shooting。NBA 2025-26 的步數怎麼算，看[走步篇](/articles/traveling-gather-steps-basics/)。
-
-Art. 15.1.7 的適用情形是：球員在 jump shots 或 other moving shots 的投籃動作中，而且 after being fouled。條文接著列出三項，以 or 連接：
-
-- passes the ball off（把球傳出去）
-- if the ball is moved upwards in a direction away from the basket（球向遠離籃框的方向往上移動）
-- if the player is not facing the basket when the ball is moved in an upwards motion（球往上移動時，球員沒有面向籃框）
-
-結論句 that player is no longer considered to have been in the act of shooting 接在第三項之後，原文沒有再拆開。
-
-Art. 15.1.8 的適用情形是：球員在 drives to the basket 的投籃動作中，被犯規之後 passes the ball off。結論句相同：球員不再被視為曾在投籃動作中。
-
-這三款的詞句（passes the ball off、no longer considered、facing the basket、away from the basket、legal steps、relationship between），NBA 2025-26 規則書全文在本機快照查無逐字對應。這只是詞句比對，不代表 NBA 在判罰上怎麼處理這類情形。
-
-## 三個假設動作，NBA 2025-26 與 FIBA 2026 版各從哪裡算起、寫到哪裡？
-
-下面三個動作都是假設，不是任何一場比賽。歸類由讀者看動作決定，這裡先替每個動作指定歸類。三個動作都假設球員在自己球隊的 frontcourt，game clock 與 shot clock 都沒有接近到期。
-
-### 假設一：甲隊球員把球和肩膀一起往上帶，起跳，在空中出手後雙腳落地（歸為 jump shots）
-
-- NBA 2025-26 Rule 4 §XI：jump shots 那一句，起點是球員 starts to bring the ball upward towards the basket，也就是球開始往上帶的那一刻，同時要裁判判斷 shooting motion 已經開始。終點要 shooting motion 停止且球員回到 normal floor position 兩個條件都成立。
-- FIBA 2026 版 Art. 15.1.2：起點是肩膀和球開始往上的那一刻。frontcourt 的條件（15.1.4）在這個假設裡成立。終點句同時點名了球離手與 airborne shooter 雙腳回到地面。這個動作兩件事都發生。or 之後半句管到哪裡，本題同樣不替它下結論。
-
-### 假設二：乙隊球員運球進 frontcourt，雙手放到球上結束運球，接著繼續投籃（歸為 drives to the basket）
-
-- NBA 2025-26 Rule 4 §XI：起點是球員 gathers the ball 並 continues through with a shot。雙手放到球上、結束運球，是 Rule 4 §III(b)(1) 寫的 gather 情形之一。如果這一球同時符合括號的兩個前提（take foul situation 與 clocks are not expiring，這裡只是假設它們成立），起點改成肩膀開始往上。終點與假設一相同。
-- FIBA 2026 版 Art. 15.1.3：起點是運球結束、球停在手中，而且球員 continues the shooting motion。Art. 15.1.3 沒有為 gathered 另設定義句，和 NBA Rule 4 §III 的 gather 是否同義，條文沒有寫。兩邊的起點各自讀自己的條文。終點是兩款相同的 Ends 項。
-
-### 假設三：丙隊球員已開始投籃動作，手臂被防守者抓住；丁隊球員切入、被犯規之後把球傳出去
-
-- 丙隊球員，手臂被抓住：FIBA 2026 版 Art. 15.1.6 寫，這種情形球不必離手。NBA 2025-26 Rule 4 §XI 也有 not essential 一句，下一句舉了手臂被抓住的例子。
-- 丁隊球員，切入（歸為 drives to the basket）、被犯規之後 passes the ball off：FIBA 2026 版 Art. 15.1.8 寫，他不再被視為曾在投籃動作中。NBA 2025-26 規則書查無逐字對應的句子（見上一節），這一題 NBA 這邊沒有條文可引。
-
-做法是三步：先判斷動作歸進哪一組，再找那一組的起算句與終點句，再看 frontcourt、被抓住、被犯規後傳球這幾款有沒有加條件。這是本文讀條文的順序，規則書自己沒有這樣寫。
-
-## 範圍與版本：只比 NBA 2025-26 與 FIBA 2026 版條文的字面
-
-本文的範圍是 NBA 2025-26 規則書的 Rule 4 §XI、§III、§IV(i)(1) 與 Rule 7 §II(d)(1)，以及 FIBA 2026 版規則書 v1-1（2026 年 10 月 1 日生效）的 Art. 2.4、11.1 與 Article 15。文中的「查無」，都指在本機保存的全文文字檔做全文比對的結果。本文只比條文字面，裁判實際怎麼判，不在本文範圍。規則書會隨賽季或修訂更新，之後以官方最新版為準。
-
-讀者可以主張兩邊的終點實際上相近：FIBA 的 Ends 項 or 之後的半句也寫到 airborne shooter 雙腳回到地面，Art. 15.1.6 又寫了手臂被抓住時球不必離手。讀者也可以主張分組不同只是排版。
+相關閱讀：[走步與收球](/articles/traveling-gather-steps-basics/)、[運球結束與二次運球](/articles/dribble-ends-double-dribble-basics/)、[節末飛行中的球](/articles/end-of-period-ball-in-flight-basics/)、[進攻三秒](/articles/offensive-three-seconds-basics/)、[0.3 秒規則](/articles/point-three-seconds-rule-basics/)、[違例與犯規的差別](/articles/violation-vs-foul/)。
 
 ## 常見問題
 
 ### NBA 2025-26 規則書的投籃動作，從什麼時候開始？
 
-依 NBA 2025-26 規則書 Rule 4 §XI，起點是裁判判斷球員已經開始 shooting motion。jump shots 以球員開始把球向籃框方向往上帶為起點；drives to the basket 與 other moving shots 以球員 gathers the ball 並 continues through with a shot 為起點，take foul situation 且 clocks are not expiring 時，改以肩膀開始往上為起點。見上文「起點分兩句」一節。
+由裁判判斷球員是否已經開始投籃動作。跳投從進攻者開始把球朝籃框往上帶算起。切入和其他移動投籃，從球員收球並接續出手算起；但 take foul 情境且計時器沒有即將到期時，改從肩膀開始往上算。詳見「收球時，已經開始投籃了嗎？」一節。
 
 ### FIBA 2026 版規則書的投籃動作，寫到哪裡結束？
 
-依 FIBA 2026 版規則書（2026 年 10 月 1 日生效）Art. 15.1.2 與 15.1.3，jump shots、other moving shots 與 drives to the basket 的 Ends 項文字相同：Ends when the ball has left the player’s hand(s), or if an entirely new act of shooting is made and, in case of an airborne shooter, both feet have returned to the floor. Art. 15.1.4 的兩個例外情形只寫了起點。見上文「兩款起訖」一節。
+Art. 15.1.2 和 15.1.3 的終點是同一句：“Ends when the ball has left the player’s hand(s), or if an entirely new act of shooting is made and, in case of an airborne shooter, both feet have returned to the floor.”
 
 ### 規則書有寫球不必離手嗎？
 
-有，但情境不同。NBA 2025-26 規則書 Rule 4 §XI 有一句 It is not essential that the ball leave the shooter’s hand，下一句舉手臂被抓住為例；FIBA 2026 版規則書（2026 年 10 月 1 日生效）Art. 15.1.6 則限定在投籃動作中手臂被對手抓住的情形。見上文「球不必離手」一節。
+有。NBA Rule 4 §XI 寫球不必離開射手的手，並以手臂可能被抓住為例。FIBA Art. 15.1.6 的前提是：球員在投籃動作中，手臂被對手抓住，因此無法得分；在這種情況下，球不必離手。
 
 ### FIBA 2026 版對投籃球員的位置有什麼規定？
 
-FIBA 2026 版規則書（2026 年 10 月 1 日生效）Art. 15.1.4 寫，球員要在 frontcourt 才算在投籃動作中，並列出兩個可在場上任何位置的例外：節末或延長賽結束時 game clock 到期前的 last action，以及比賽任何時候 shot clock 到期前的 last action。見上文「投籃的球員要在 frontcourt」一節。
+Art. 15.1.4 要求球員在前場，才算在投籃動作中。例外是節末或延長賽比賽鐘到期前的最後一個動作，以及比賽中任何時刻進攻鐘到期前的最後一個動作：這時可以在場上任何位置，起點改為球員已收球、球停在手中。
+
+## 範圍與版本
+
+依據 NBA 2025-26 規則書與 FIBA 2026 版規則書（v1.1，2026 年 10 月 1 日生效），不是 NBA 2026-27 更新案。規則修訂後以官方新版為準。
 
 ## 資料來源
 
-- NBA 2025-26 賽季規則書（Official Playing Rules）：Rule 4 Section III（The Gather）、Section IV(i)(1)、Section XI（Field Goal Attempt），以及 Rule 7 Section II(d)(1)。本機保存的全文文字檔，取得日 2026 年 10 月 4 日，無可點擊網址。
-- FIBA Official Basketball Rules 2026 v1-1（2026 年 10 月 1 日生效）：Article 2.4、Article 11.1，以及 Article 15（Player in the act of shooting）15.1.1 至 15.1.8。本機保存的全文文字檔，取得日 2026 年 10 月 4 日，無可點擊網址。
+- [NBA 2025-26 官方規則書](https://cdn.nba.com/manage/2026/01/Official-2025-26-NBA-Playing-Rules.pdf)：Rule 4 §III、§IV、§XI
+- [FIBA 官方規則下載頁](https://about.fiba.basketball/en/services/resource-hub/downloads)：Art. 15.1.2 至 15.1.4、15.1.6 至 15.1.8
